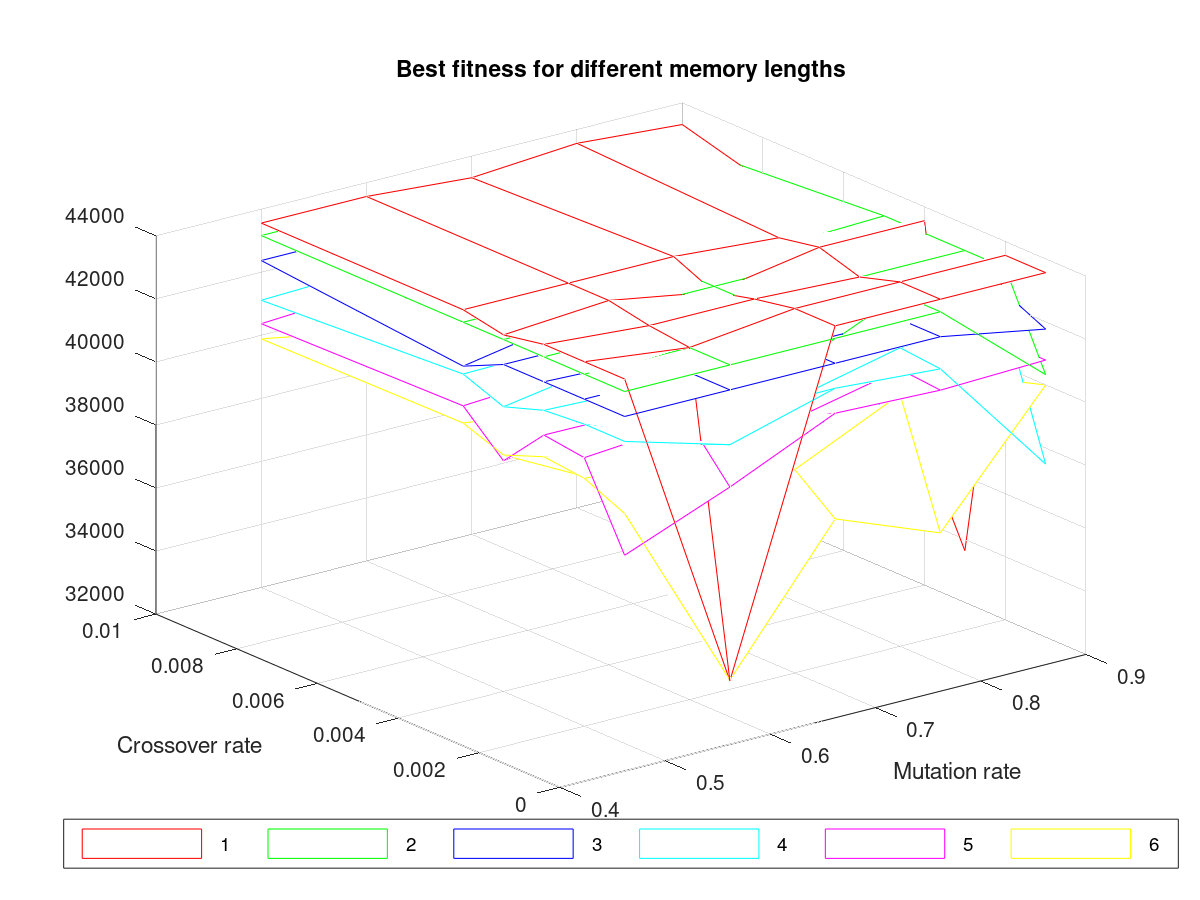
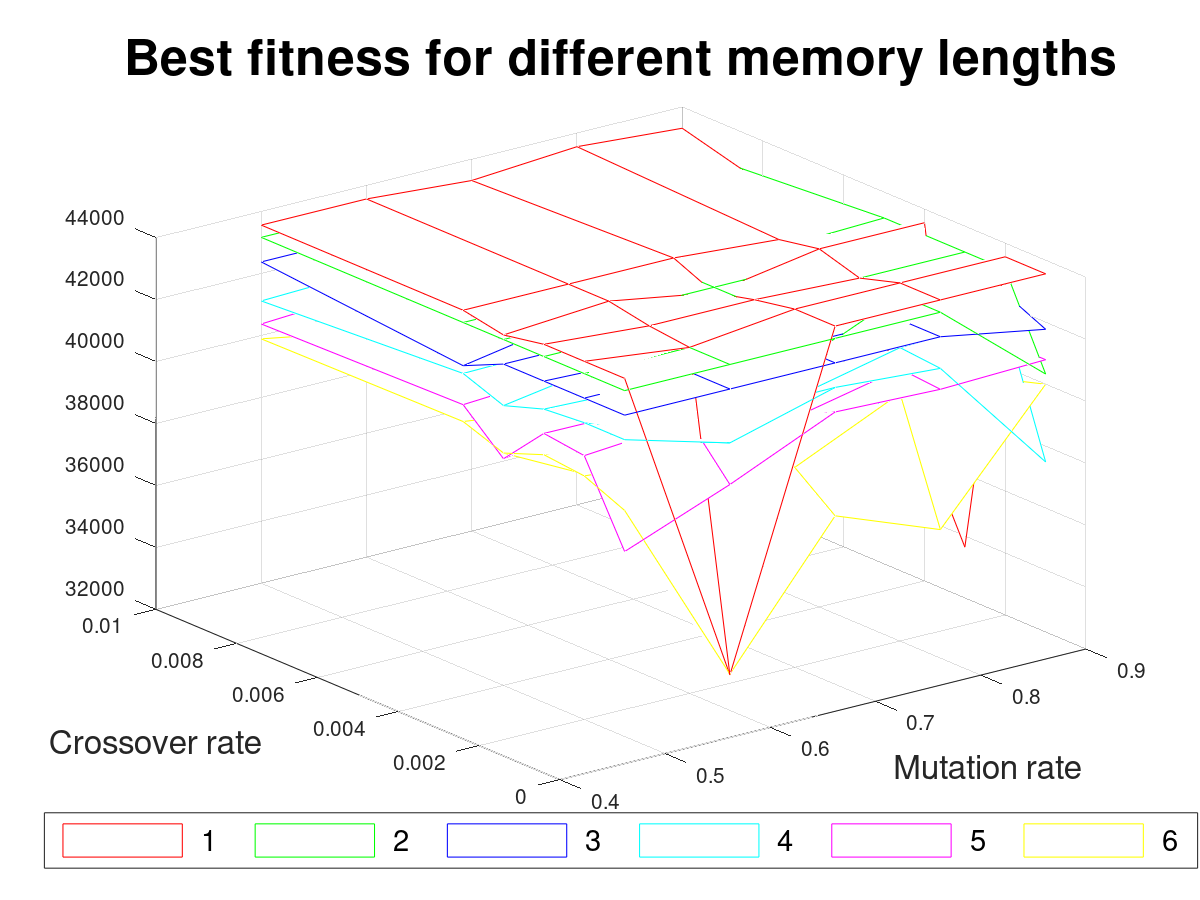
minor changes to experiment 3 plot

diff --git a/experiments.code/experiment3.m b/experiments.code/experiment3.m
@@ -38,8 +38,9 @@ for k=1:length(memory_lengths)
   hold on;
 end
 
-title('Best fitness for different memory lengths');
-xlabel('Mutation rate');
-ylabel('Crossover rate');
-legend(meshes, {'1','2','3','4','5','6'}, 'Location','BestOutside', 'Orientation', 'Horizontal');
+title('Best fitness for different memory lengths', 'FontSize', 24);
+xlabel('Mutation rate', 'FontSize', 16);
+ylabel('Crossover rate', 'FontSize', 16);
+leg = legend(meshes, {'1','2','3','4','5','6'}, 'Location', 'BestOutside', 'Orientation', 'Horizontal');
+set(leg,'FontSize', 14);
 saveas(gcf,'experiment3.png')
